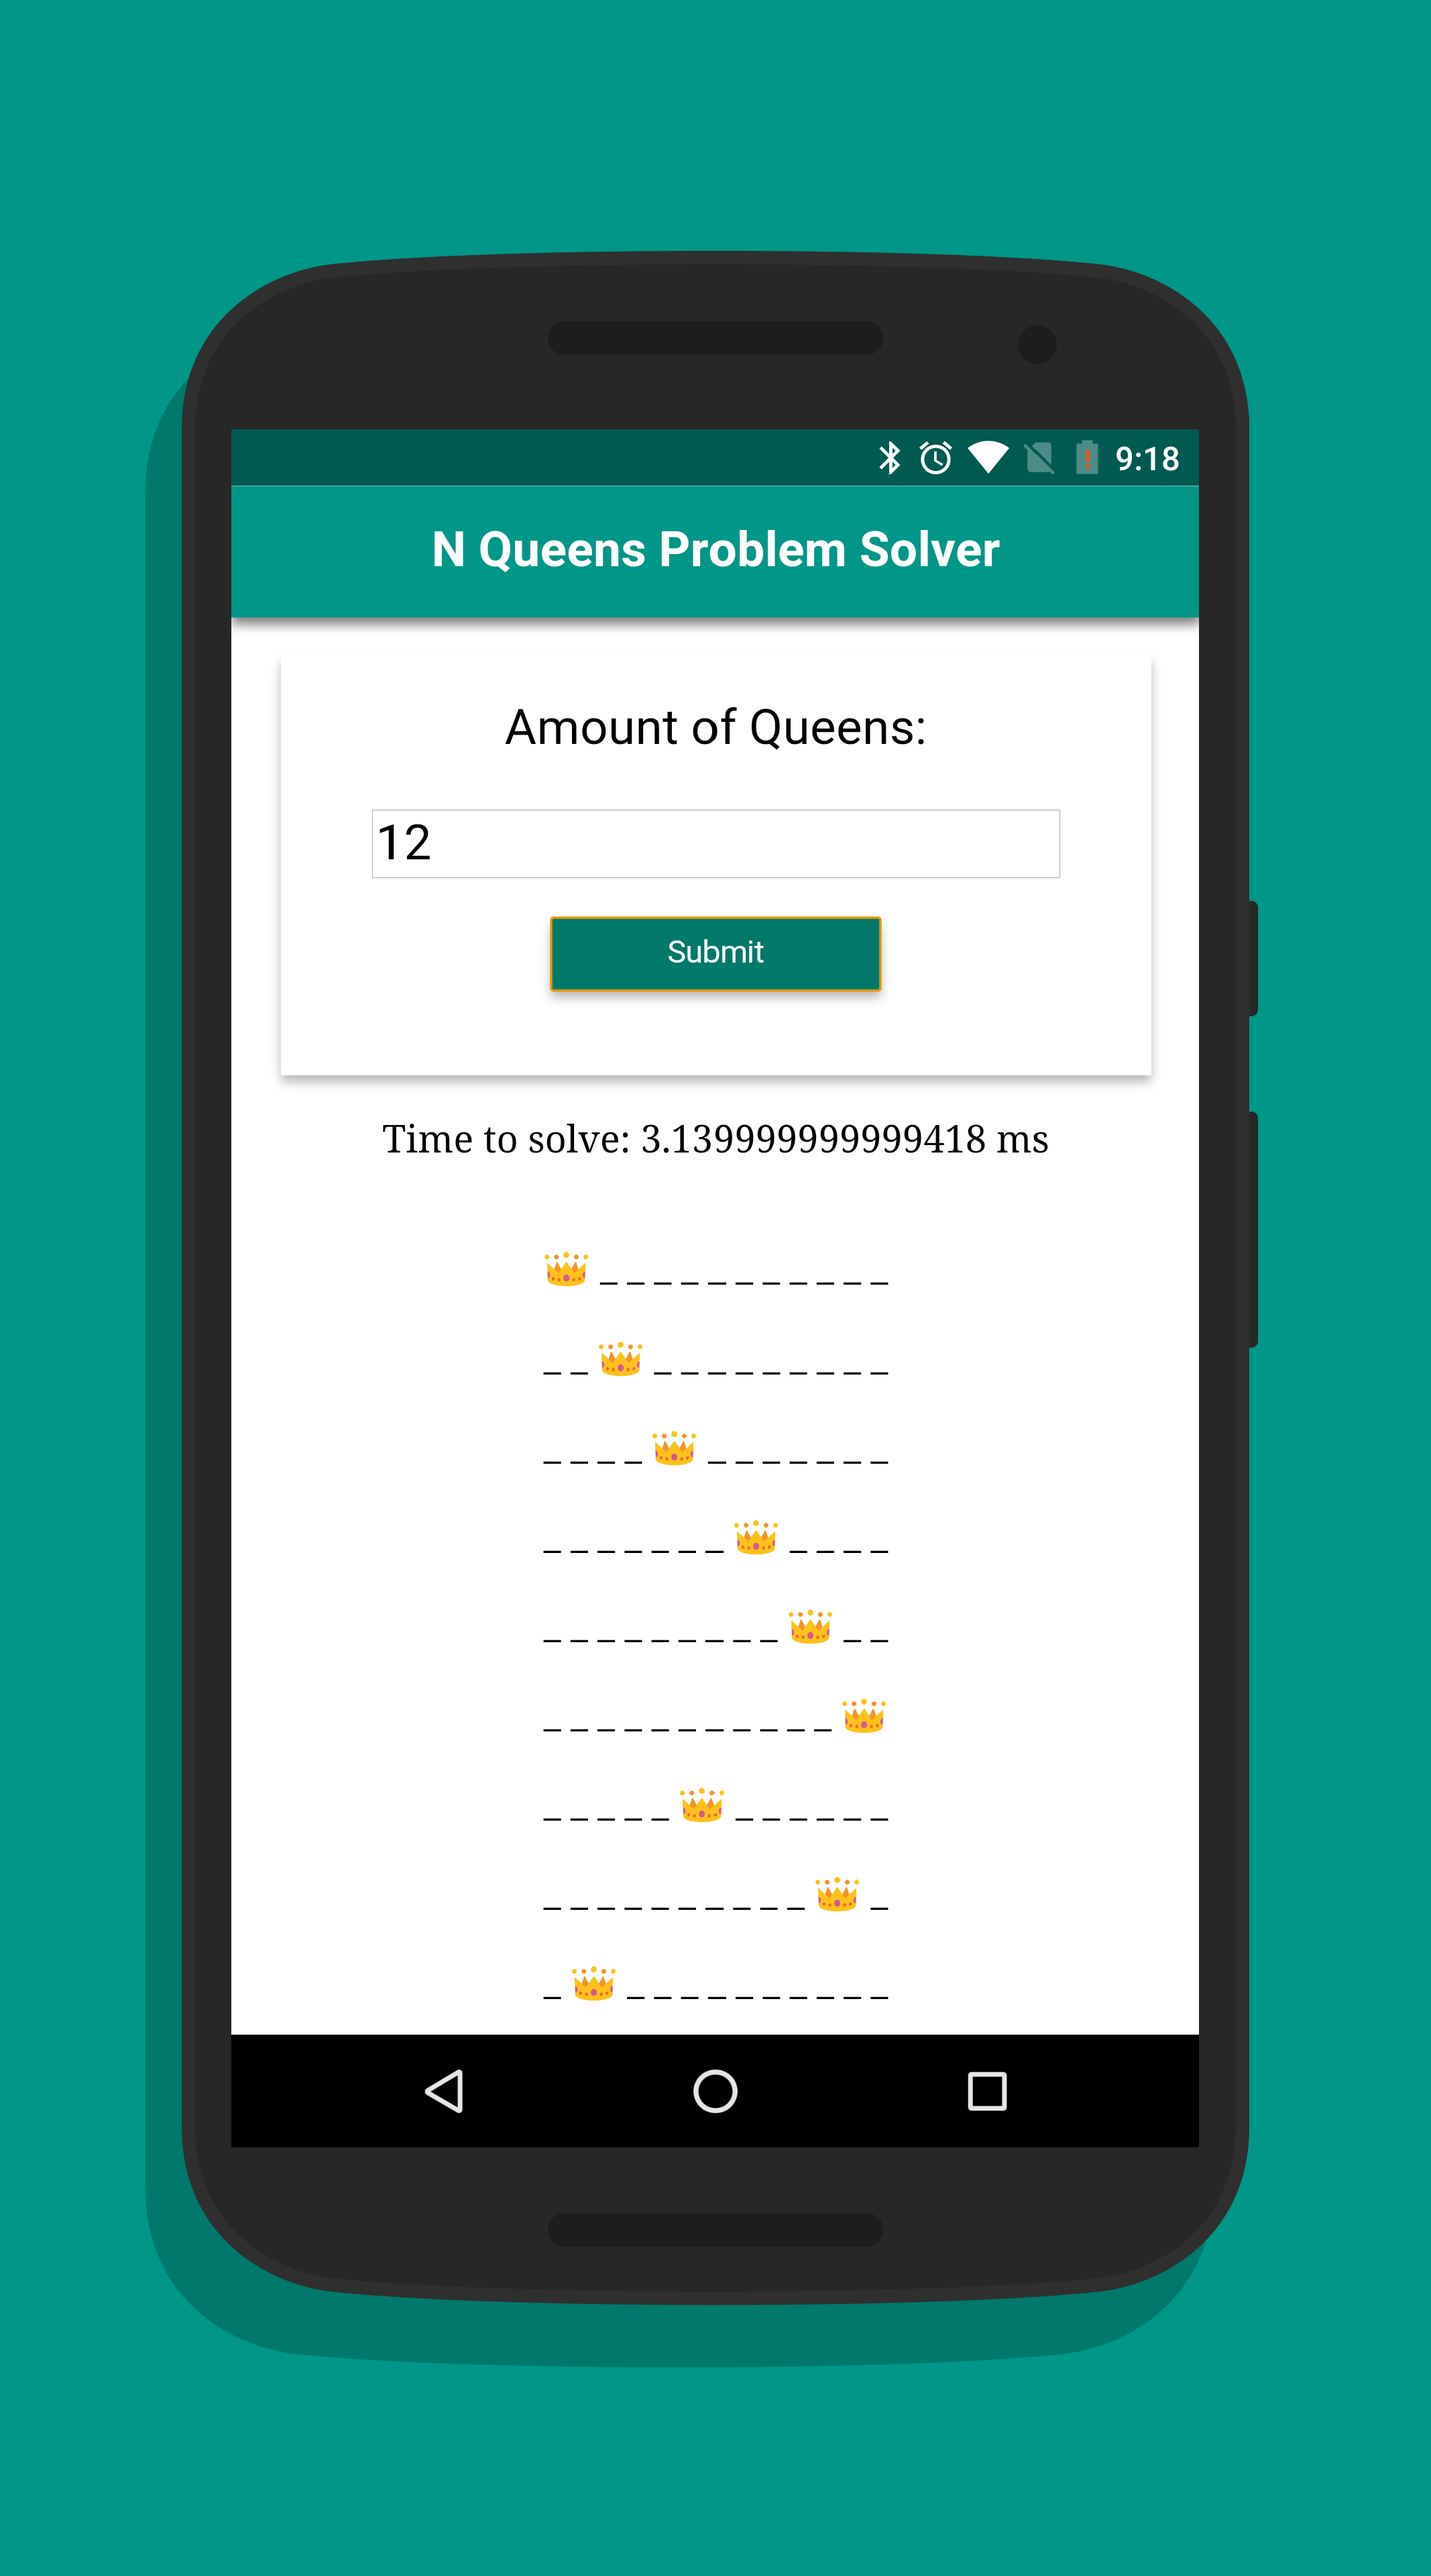
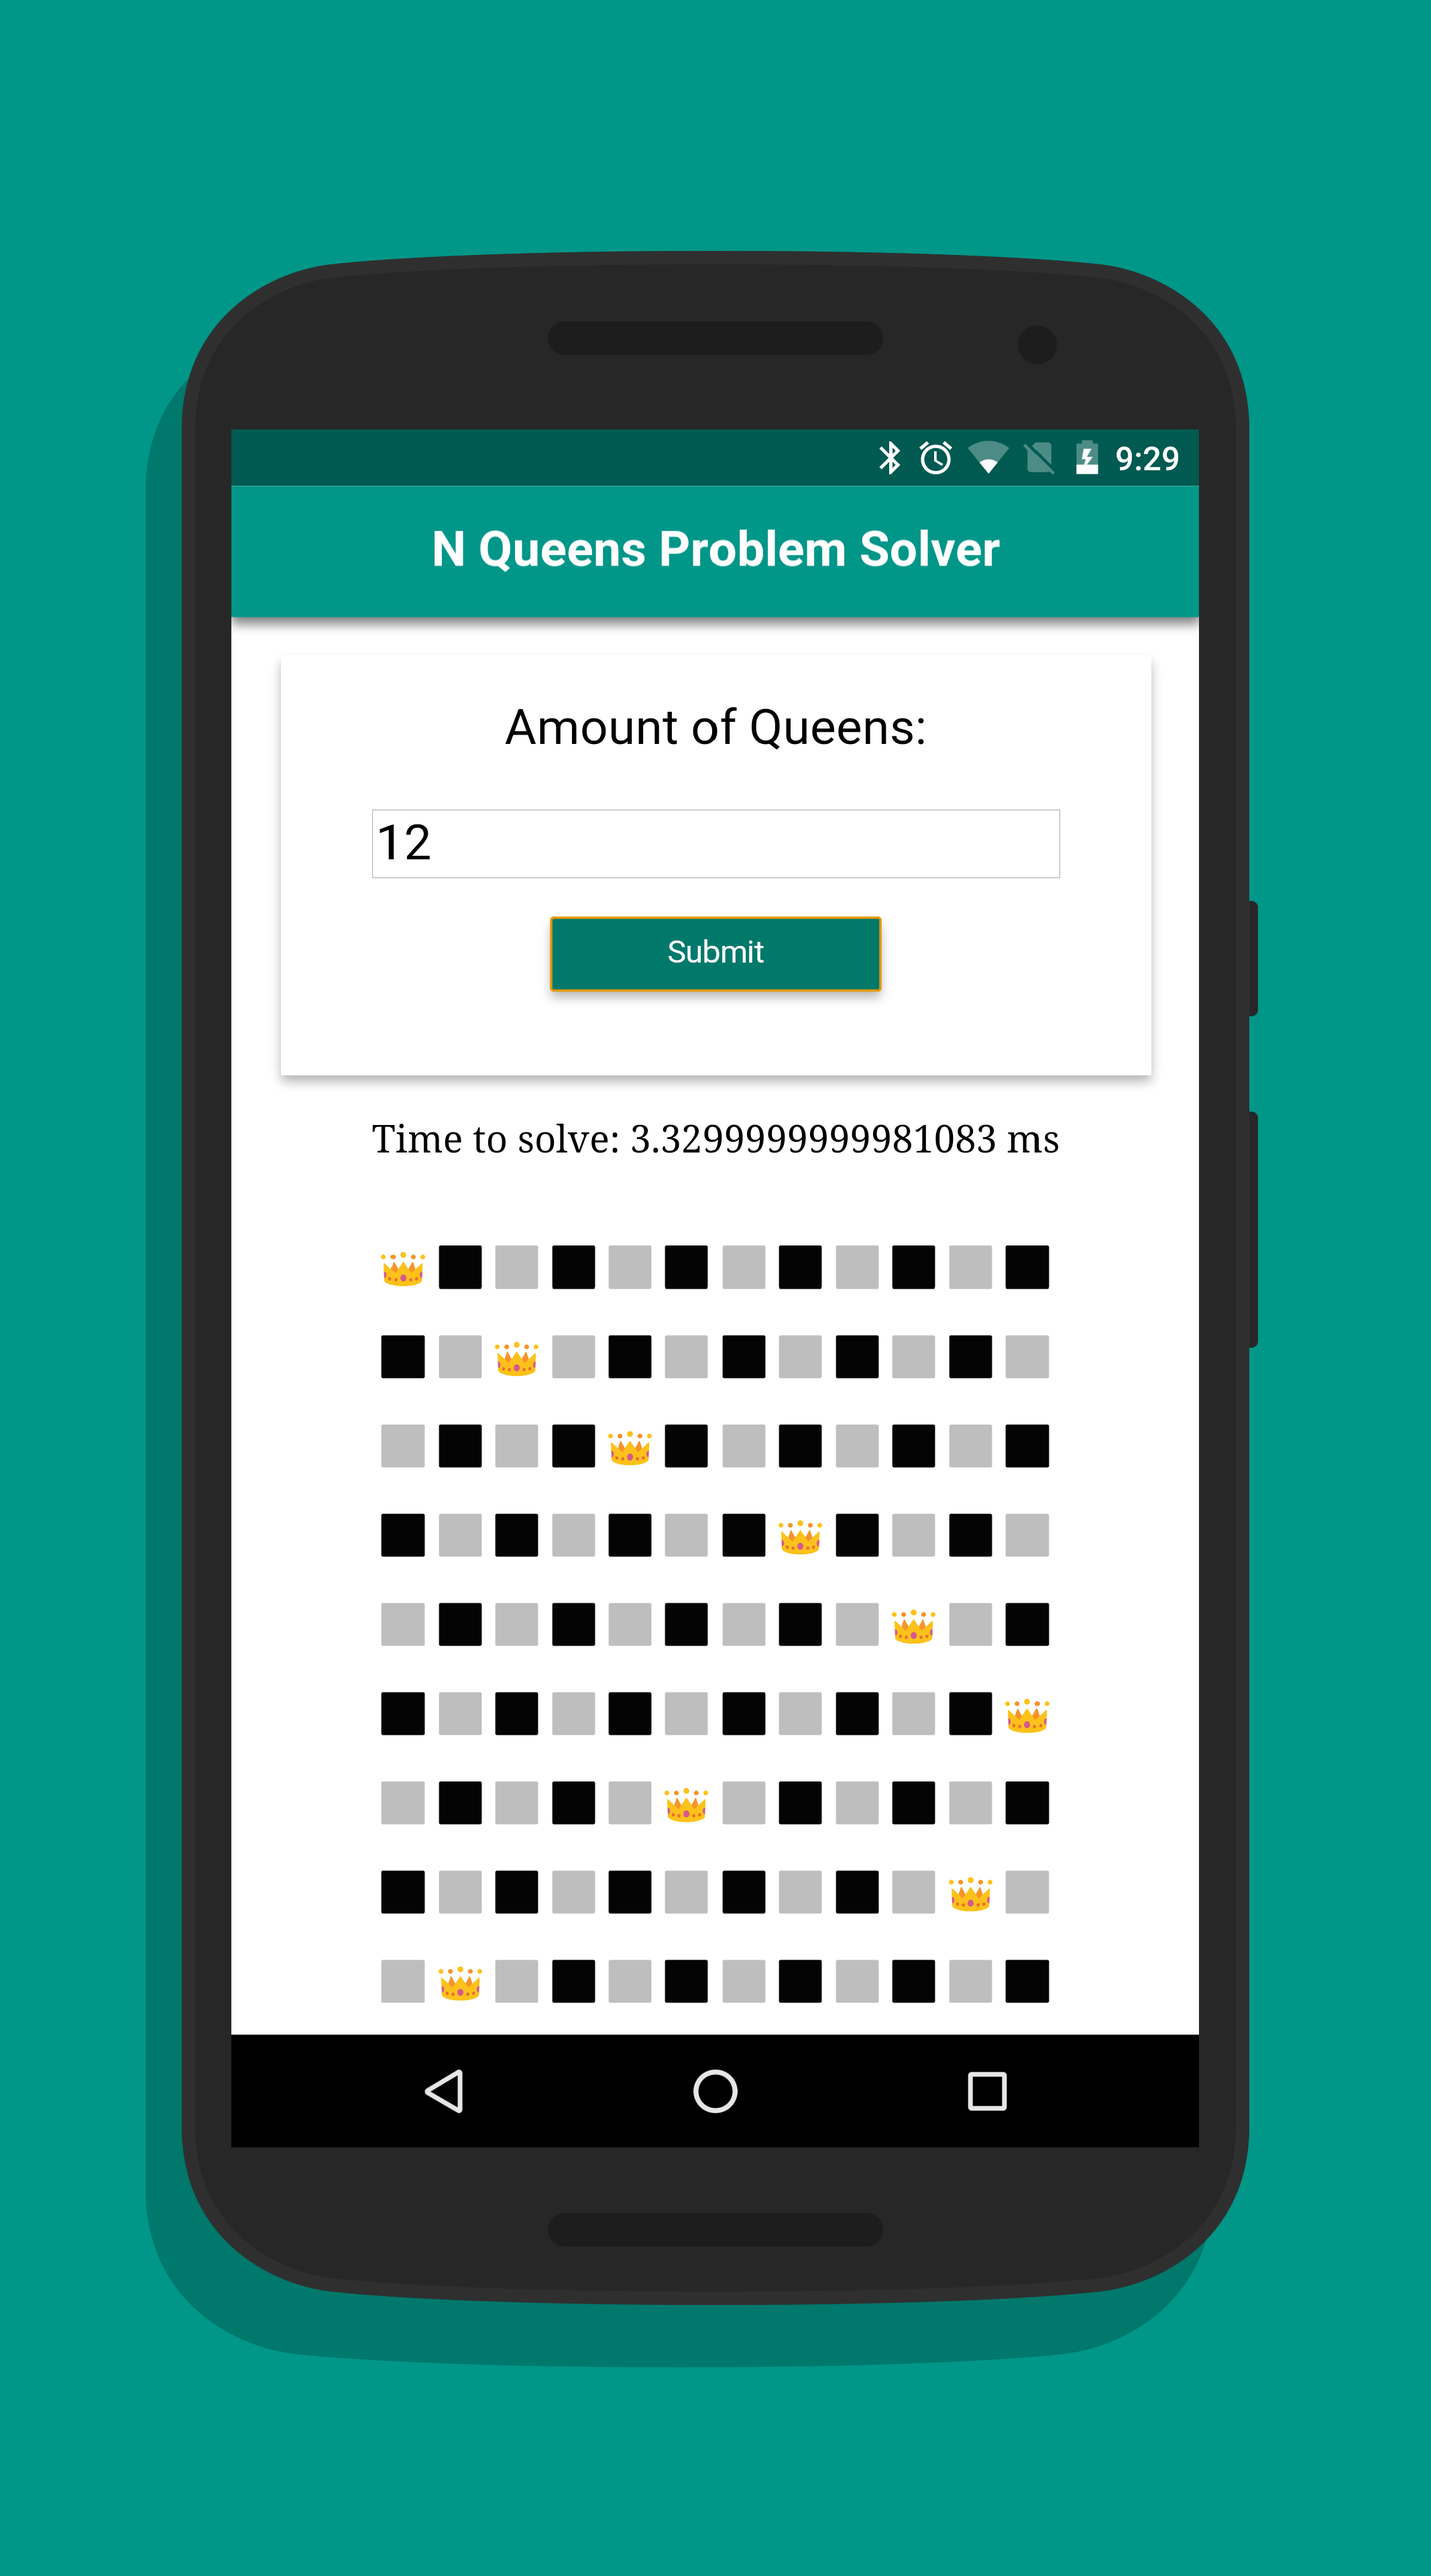
Update screenshots, remove unused imgs

Changed region(s): [[0.2474, 0.4375, 0.7423, 0.7812], [0.6804, 0.1562, 0.7113, 0.1875]]

diff --git a/README.md b/README.md
@@ -20,11 +20,11 @@ Serve locally (assumes php or python is installed):
 
 # Screenshots
 
-8 Queens - Nexus 5x: 2.0149ms
+8 Queens - Nexus 5x: 2.4750ms
 
 ![8 Queens - Nexus 5x](images/screenshots/8-queens--Nexus5x.png)
 
-12 Queens - Nexus 6: 3.1399ms
+12 Queens - Nexus 6: 3.3299ms
 
 ![12 Queens - Nexus 6](images/screenshots/12-queens--Nexus6.png)
 
